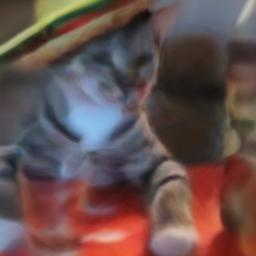
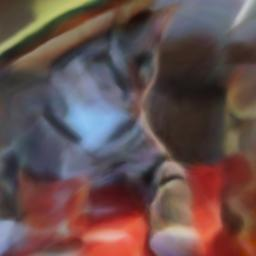
flatten image, reshape, dropout(x), add batchnorm

diff --git a/coord_rgb/modules/train.py b/coord_rgb/modules/train.py
@@ -1,24 +1,30 @@
 from img_dataset import img_flatten, xy_flatten, crop_size
-from model import model
+# from model import model
+from mlp import model
 import torch.optim as optim
 import torch.nn as nn
 import matplotlib.pyplot as plt
 import torch
+import numpy as np
+# from PIL import Image
 
 # params
-learning_rate = 0.01
-num_epochs = 701
+learning_rate = 5e-3
+num_epochs = 300
 
 # set the target
 # target = img_flatten
 target = img_flatten
+
+# calc loss
+criterion = nn.MSELoss() 
 
 # optimizer
 optimizer = optim.Adam(model.parameters(), lr=learning_rate) 
 
 for epoch in range(num_epochs):
 
-    model.train()
+    # model.train()
 
     # for mlp
     generated = model(xy_flatten)
@@ -26,28 +32,55 @@ for epoch in range(num_epochs):
     # print(f'generated_shape: {generated.shape}')
 
     # loss = criterion(generated, target)
-    loss = nn.functional.l1_loss(target, generated)
+    loss = criterion(generated, img_flatten)
 
     optimizer.zero_grad()
     loss.backward()
     optimizer.step()
 
-    if epoch % 100 == 0:
-        print('Epoch %d, loss = %.03f' % (epoch, float(loss)))
-        # print(generated.shape)
-        # generated = generated.view((crop_size, crop_size, 3)).detach().numpy()
-        # print(generated.shape)
-        generated = torch.reshape(generated, (crop_size, crop_size, 3))
-        # generated = torch.reshape(generated, (crop_size, crop_size, 3)).detach().numpy()
-        # generated = generated * 255
-        # print(f'generated: {generated}')
-        # generated = (generated * 255).astype(np.uint8)
-        # generated = (generated - generated.min()) / (generated.max() - generated.min())
-        # print(generated)
-        # generated = generated.permute(1, 2, 0).detach().numpy()
-        generated = generated.detach().numpy()
-        plt.imshow(generated)
-        plt.show()
+    print(f"Epoch {epoch+1}/{num_epochs}, Loss: {loss.item()}")
+
+    # if epoch % 100 == 0:
+    #     print('Epoch %d, loss = %.03f' % (epoch, float(loss)))
+    #     # print(generated.shape)
+    #     # generated = generated.view((crop_size, crop_size, 3)).detach().numpy()
+    #     # print(generated.shape)
+    #     generated = torch.reshape(generated, (crop_size, crop_size, 3))
+    #     # generated = torch.reshape(generated, (crop_size, crop_size, 3)).detach().numpy()
+    #     # generated = generated * 255
+    #     # print(f'generated: {generated}')
+    #     # generated = (generated * 255).astype(np.uint8)
+    #     # generated = (generated - generated.min()) / (generated.max() - generated.min())
+    #     # print(generated)
+    #     # generated = generated.permute(1, 2, 0).detach().numpy()
+    #     generated = generated.detach().numpy()
+    #     plt.imshow(generated)
+    #     plt.show()
         # plt.pause(10)
         # plt.close()
-model.eval()
+# model.eval()
+
+# [160000, 3]
+# print(f'generated shape: {generated.shape}')
+
+# generated_reshape = model(xy_flatten) 
+generated_reshape = torch.reshape(generated, (crop_size, crop_size, 3))
+# generated_reshape = generated_reshape.permute(2, 0, 1) * 255.0
+
+# generated_reshape = generated_reshape.permute(1, 2, 0)
+
+
+
+# # print(generated_reshape)
+
+
+# # print(f'generated_reshape: {generated_reshape.shape}')
+generated_reshape = generated_reshape.detach().numpy()
+# generated_reshape = generated_reshape.astype(np.uint8)
+
+
+plt.imshow(generated_reshape)
+plt.show()
+
+
+

diff --git a/coord_rgb/modules/mlp.py b/coord_rgb/modules/mlp.py
@@ -1,0 +1,80 @@
+import torch.nn as nn
+import torch
+
+class MLP(nn.Module):
+    def __init__ (self, in_feature, hidden_feature, hidden_layers, out_feature):
+        super().__init__()
+
+        # first layer
+        layers = [
+                nn.Linear(in_feature, hidden_feature),
+                nn.BatchNorm1d(hidden_feature),
+                nn.ReLU(),
+                # nn.Dropout(p=0.5)
+        ]
+
+        # hidden layer
+        hidden_layer_list = [
+            nn.Linear(hidden_feature, hidden_feature),
+            nn.BatchNorm1d(hidden_feature),
+            nn.ReLU(),
+            # nn.Dropout(p = 0.5)
+        ]
+
+        # last layer
+        out_layer_list = [
+            nn.Linear(hidden_feature, out_feature),
+            nn.Sigmoid()
+        ]
+
+        for _ in range(hidden_layers):
+            layers.extend(hidden_layer_list)
+        
+        layers.extend(out_layer_list)
+
+        self.net = nn.Sequential(*layers)
+
+    def forward(self, x):
+        return self.net(x)
+
+class MLP2(torch.nn.Module):
+    def __init__(
+        self,
+        in_features: int,
+        hidden_features: int,
+        hidden_layers: int,
+        out_features: int
+    ):
+        super().__init__()
+        # out_features = out_features if out_features is not None else hidden_features
+        layers = [
+            torch.nn.Linear(in_features, hidden_features),
+            torch.nn.BatchNorm1d(hidden_features),  # Batch Normalization layer
+            torch.nn.ReLU(),
+        ]
+        for _ in range(hidden_layers):
+            layers.extend([
+                torch.nn.Linear(hidden_features, hidden_features),
+                torch.nn.BatchNorm1d(hidden_features),  # Batch Normalization layer
+                torch.nn.ReLU(),
+            ])
+        layers.append(torch.nn.Linear(hidden_features, out_features))
+        layers.append(torch.nn.Sigmoid())  # Assuming you want to keep the Sigmoid on the output layer
+
+        self.net = torch.nn.Sequential(*layers)
+    
+    def forward(self, x: torch.Tensor):
+        return self.net(x)
+
+# declare network
+# net = MLP(in_feature=2, hidden_feature=32, hidden_layers=8, out_feature=3)
+net_2 = MLP2(in_features=2, hidden_features=32, hidden_layers=8, out_features=3)
+
+# print(f'net: {net}')
+# print(f'net: {net_2}')
+
+
+# model = net
+model = net_2
+
+

diff --git a/coord_rgb/main_neural_image_representation.py b/coord_rgb/main_neural_image_representation.py
@@ -130,7 +130,7 @@ class MLP(torch.nn.Module):
 def main():
 
     #0. params 
-    crop_size = 256
+    crop_size = 400
     nb_epochs = 200
     learning_rate = 5e-3
 
@@ -201,11 +201,15 @@ def main():
     # Denormalizing the pixel values
     recons_im = recons_im * 255.0
     recons_im = recons_im.detach().permute(1, 2, 0).numpy()  # Change to [256, 256, 3] for displaying and saving
+
+    print(recons_im)
     recons_im_pil = Image.fromarray(recons_im.astype(np.uint8))
-    recons_im_pil.save('reconstructed_image.jpg')
+    recons_im_pil.save('reconstructed_image_5.jpg')
 
 
 
 if __name__ == "__main__":
     main()
+    
+    
 
